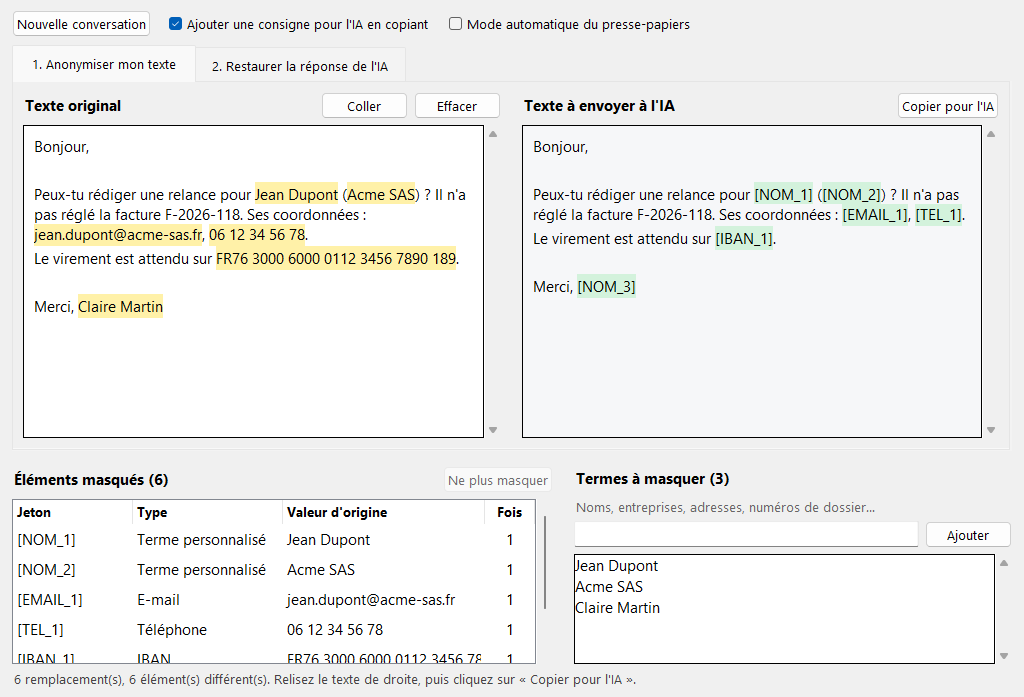
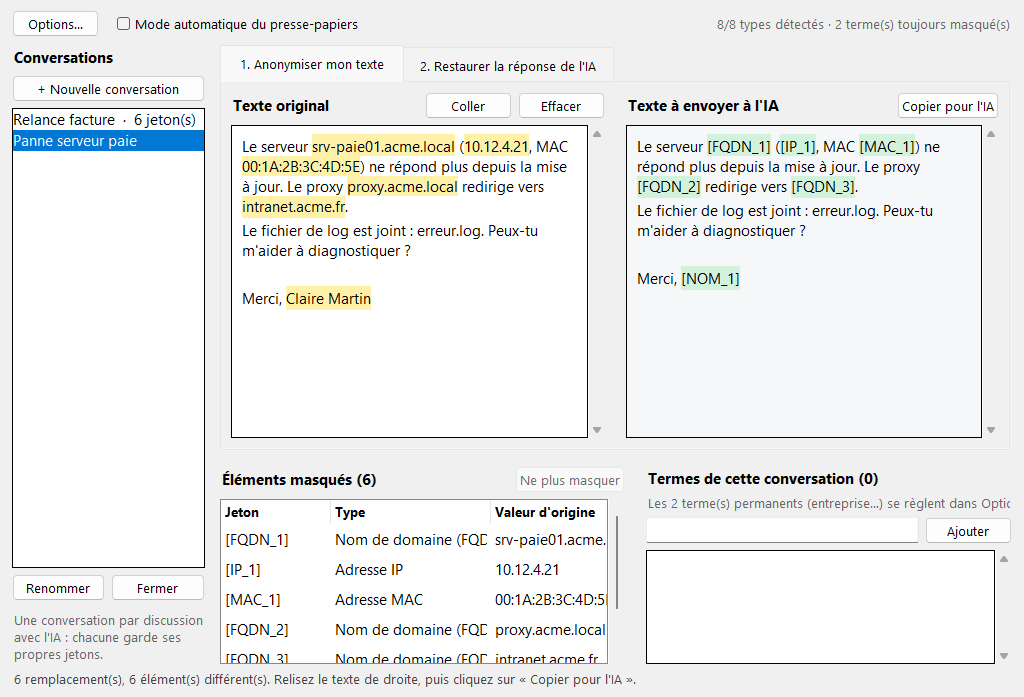
README : conversations, options et termes permanents
Claude-Session: https://claude.ai/code/session_01HRDvkQPwDqhkpwtVeyn17T

diff --git a/anonymiseur.py b/anonymiseur.py
@@ -414,7 +414,7 @@ class Application:
             text=f"{len(self.options.types)}/{len(TYPES_AUTO)} types détectés · {n} terme(s) toujours masqué(s)")
         if hasattr(self, "aide_termes"):
             self.aide_termes.configure(
-                text=f"Les {n} terme(s) permanents (entreprise…) se règlent dans Options.")
+                text=f"+ {n} terme(s) toujours masqué(s), voir Options")
 
     def modifie(self, widget, action):
         if not widget.edit_modified():

diff --git a/README.md b/README.md
@@ -18,28 +18,37 @@ Téléchargez **IA-Anonymiser.exe** dans la [dernière release](https://github.c
 
 ![Onglet Restaurer](docs/onglet2.png)
 
+### Plusieurs conversations
+
+La colonne de gauche liste vos conversations. Créez-en une par discussion avec l'IA : chacune garde ses propres jetons, donc `[NOM_1]` peut désigner une personne différente dans deux conversations. **Avant de coller une réponse de l'IA, sélectionnez la bonne conversation.** Double-cliquez sur une conversation pour la renommer.
+
 ### Ce qui est masqué
 
-- **Automatiquement** : e-mails, téléphones (France et international), IBAN, cartes bancaires, numéros de sécurité sociale, adresses IP.
-- **Vos termes** : noms, entreprises, adresses, numéros de dossier… Ajoutez-les dans la liste « Termes à masquer », ou sélectionnez un mot dans le texte puis faites clic droit → **Masquer** (ou **Ctrl+M**). La liste est enregistrée et resservira à chaque lancement.
+- **Automatiquement** : e-mails, téléphones (France et international), IBAN, cartes bancaires, numéros de sécurité sociale, adresses IP, adresses MAC, noms de domaine (FQDN, par exemple `srv01.acme.local`). Les noms de fichiers comme `rapport.pdf` ne sont pas pris pour des domaines.
+- **Termes toujours masqués** : le nom de votre entreprise, de vos clients, de vos collègues… Ils se règlent dans **Options**, sont enregistrés et s'appliquent à toutes les conversations.
+- **Termes de la conversation** : un nom qui ne concerne que cette discussion. Ajoutez-le dans le panneau du bas, ou sélectionnez-le dans le texte puis clic droit → **Masquer** (ou **Ctrl+M**). Le bouton **Toujours masquer** le fait passer dans les termes permanents.
 
 Le tableau « Éléments masqués » montre chaque élément remplacé. Double-cliquez sur une ligne pour le laisser en clair, ou pour le masquer à nouveau.
 
 ### Options
 
+![Options](docs/options.png)
+
+- **Masquer automatiquement** : cochez les types de données à détecter. Les termes sont toujours masqués, même si un type est décoché.
+- **Termes toujours masqués** : voir plus haut.
 - **Ajouter une consigne pour l'IA en copiant** : ajoute une phrase demandant à l'IA de garder les jetons tels quels. Elle est activée par défaut, ce qui rend la restauration plus fiable.
-- **Mode automatique du presse-papiers** : tout texte que vous copiez est anonymisé, et toute réponse contenant des jetons est restaurée, directement dans le presse-papiers. Attention : ce mode s'applique à *tout* ce que vous copiez tant qu'il est activé.
-- **Nouvelle conversation** : oublie les correspondances en cours et fait repartir les jetons de 1. Vos termes sont conservés.
+
+Dans la barre du haut, le **mode automatique du presse-papiers** anonymise tout texte que vous copiez et restaure toute réponse contenant des jetons, avec la conversation sélectionnée. Attention : il s'applique à *tout* ce que vous copiez tant qu'il est activé.
 
 ## Confidentialité
 
 - Tout se passe sur votre ordinateur : l'application n'envoie rien sur Internet.
-- Les correspondances entre jetons et vraies valeurs restent en mémoire et disparaissent à la fermeture. Gardez l'application ouverte pendant toute la conversation avec l'IA.
-- Seule la liste de vos termes est enregistrée, dans `%APPDATA%\IA-Anonymiser\termes.txt`.
+- Les correspondances entre jetons et vraies valeurs restent en mémoire et disparaissent à la fermeture, ou quand vous fermez une conversation. Gardez l'application ouverte pendant toute la discussion avec l'IA.
+- Seules les options et les termes toujours masqués sont enregistrés, dans `%APPDATA%\IA-Anonymiser\options.json`.
 
 ## Limites
 
-La détection repose sur des motifs. Elle ne reconnaît pas un nom qui ne figure pas dans vos termes, et une adresse postale doit être ajoutée comme terme. **Relisez toujours le texte de droite avant de l'envoyer.**
+La détection repose sur des motifs. Elle ne reconnaît pas un nom qui ne figure pas dans vos termes, une adresse postale doit être ajoutée comme terme, et un nom de machine sans point (`SRV-PAIE01`) aussi. À l'inverse, la détection des FQDN peut masquer des mots comme `ASP.NET` : double-cliquez sur la ligne pour les laisser en clair. **Relisez toujours le texte de droite avant de l'envoyer.**
 
 Si l'IA modifie un jeton au point de le rendre méconnaissable, ou si elle en invente un, il reste tel quel et apparaît en rouge dans l'onglet Restaurer.
 
